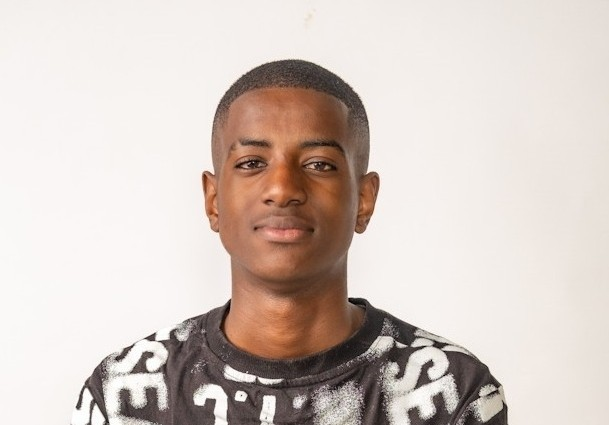
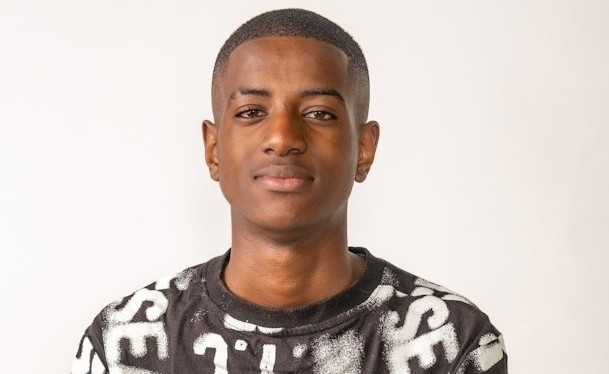
Add contact numbers to hire.html

Changed region(s): [[0.1248, 0.0, 0.8424, 1.0]]

diff --git a/templates/core/hire.html b/templates/core/hire.html
@@ -282,6 +282,17 @@
         <a href="{% url 'contact' %}" class="gold-btn inline-flex items-center gap-2 px-8 py-4 rounded-xl transition shadow-xl hover:shadow-2xl slide-up animate-on-scroll delay-2">
             Contact Us <i class="fa-solid fa-arrow-right"></i>
         </a>
+        <div class="mt-8 slide-up animate-on-scroll delay-3">
+            <p class="text-gray-200 text-base mb-4">Or reach us directly:</p>
+            <div class="flex flex-col sm:flex-row justify-center gap-6 text-gray-100">
+                <a href="tel:0762267131" class="hover:text-gold transition">
+                    <i class="fa-solid fa-phone mr-2"></i>076 226 7131
+                </a>
+                <a href="tel:0648538075" class="hover:text-gold transition">
+                    <i class="fa-solid fa-phone mr-2"></i>064 853 8075
+                </a>
+            </div>
+        </div>
     </div>
 </section>
 

diff --git a/agency/settings.py b/agency/settings.py
@@ -13,6 +13,7 @@ https://docs.djangoproject.com/en/6.0/ref/settings/
 from pathlib import Path
 import os
 import dj_database_url
+from django.core.exceptions import ImproperlyConfigured
 
 # Build paths inside the project like this: BASE_DIR / 'subdir'.
 BASE_DIR = Path(__file__).resolve().parent.parent
@@ -93,8 +94,20 @@ WSGI_APPLICATION = 'agency.wsgi.application'
 # Database
 # https://docs.djangoproject.com/en/6.0/ref/settings/#databases
 
+DATABASE_URL = os.environ.get('DATABASE_URL')
+IS_RENDER = bool(os.environ.get('RENDER_EXTERNAL_HOSTNAME'))
+
+if (not DEBUG or IS_RENDER) and not DATABASE_URL:
+    raise ImproperlyConfigured(
+        'DATABASE_URL must be configured in production. SQLite is only supported for local development.'
+    )
+
 DATABASES = {
-    'default': dj_database_url.config(default=os.environ.get('DATABASE_URL', f'sqlite:///{BASE_DIR / "db.sqlite3"}'))
+    'default': dj_database_url.config(
+        default=DATABASE_URL or f'sqlite:///{BASE_DIR / "db.sqlite3"}',
+        conn_max_age=600,
+        conn_health_checks=True,
+    )
 }
 
 STATICFILES_DIRS = [

diff --git a/README.md b/README.md
@@ -1,2 +1,21 @@
 # model-agency
 face modeling
+
+## Production database
+
+The production service must use a persistent PostgreSQL database. Render's web-service filesystem is
+ephemeral, so the local `db.sqlite3` fallback is intended only for development and is rejected when
+`DEBUG=False`.
+
+1. Create a Render PostgreSQL database.
+2. Add its internal connection string as the web service's `DATABASE_URL` environment variable.
+3. Set `DEBUG=False` and deploy the service.
+4. Run the migrations against the production database:
+
+	```text
+	python manage.py migrate
+	```
+
+After this setup, applications and contact messages are stored in PostgreSQL and survive web-service
+sleeping and restarts. Uploaded application images also require `CLOUDINARY_URL` in production if they
+must remain available after a restart.
